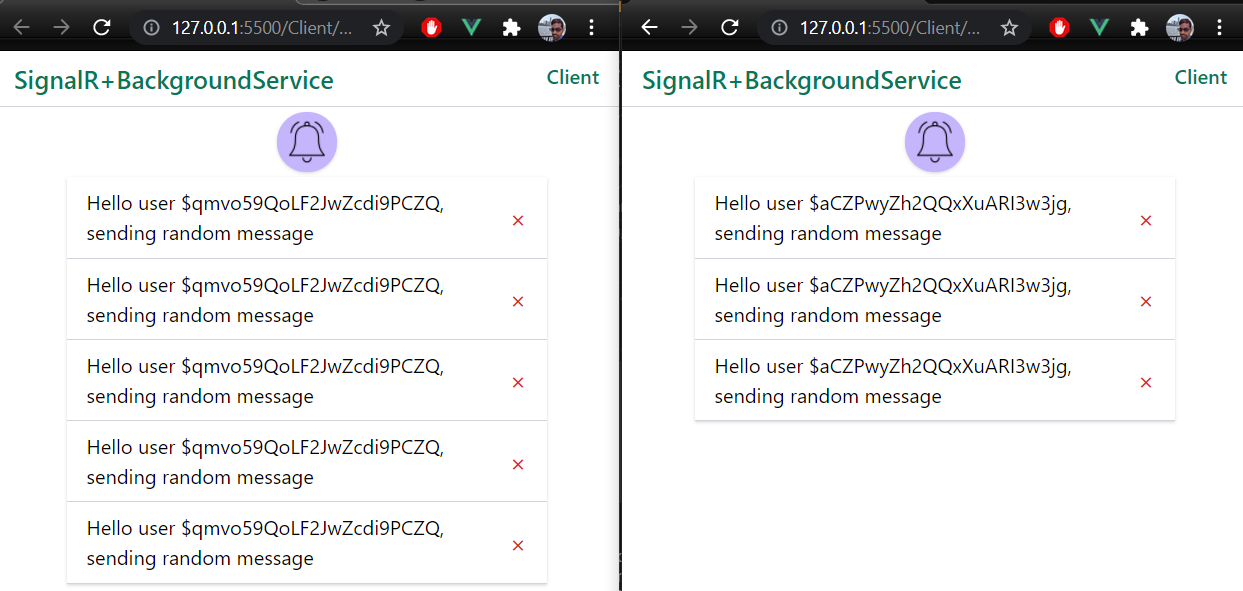
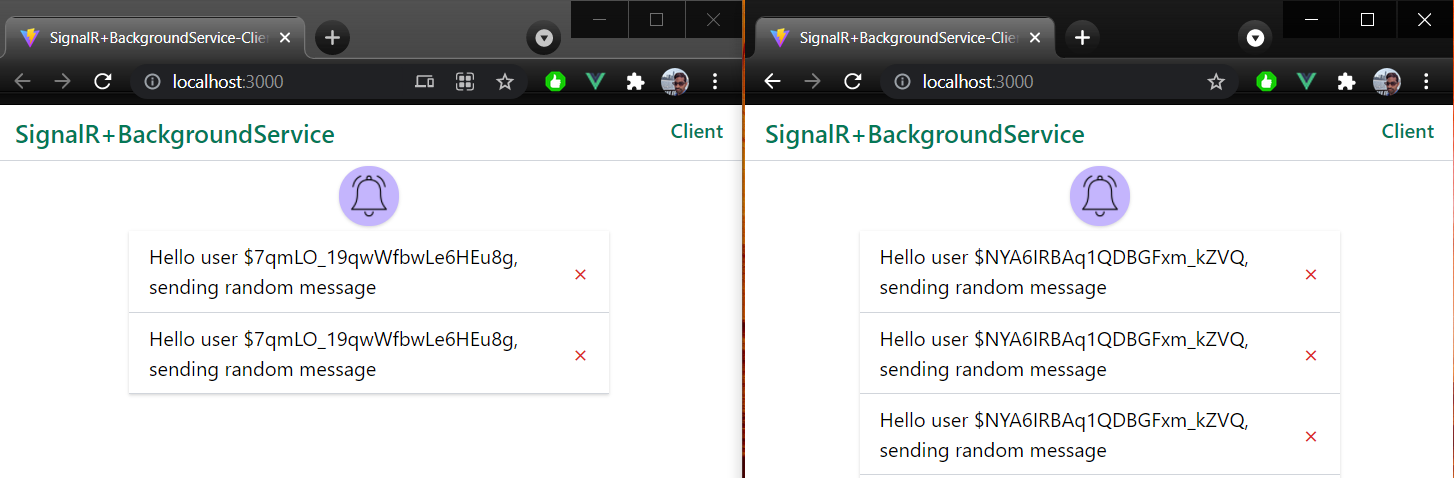
introduced vite for client

diff --git a/SignalR+BackgroundService/Client/index.html b/SignalR+BackgroundService/Client/index.html
@@ -2,30 +2,13 @@
 <html lang="en">
   <head>
     <meta charset="UTF-8" />
-    <meta http-equiv="X-UA-Compatible" content="IE=edge" />
+    <link rel="icon" type="image/svg+xml" href="favicon.svg" />
     <meta name="viewport" content="width=device-width, initial-scale=1.0" />
     <title>SignalR+BackgroundService-Client</title>
     <link
       href="https://unpkg.com/tailwindcss@^2/dist/tailwind.min.css"
       rel="stylesheet"
     />
-    <style>
-      [v-cloak] {
-        display: none;
-      }
-      .items-move {
-        transition: transform 0.3s;
-      }
-      .items-enter-active,
-      .items-leave-active {
-        transition: all 0.3s;
-      }
-      .items-enter-from,
-      .items-leave-to {
-        opacity: 0;
-        transform: translateX(2px);
-      }
-    </style>
   </head>
   <body>
     <div id="app" v-cloak>
@@ -94,37 +77,6 @@
     </div>
     <script src="https://cdnjs.cloudflare.com/ajax/libs/microsoft-signalr/3.1.7/signalr.min.js"></script>
     <script src="https://unpkg.com/vue@next"></script>
-    <script type="text/javascript">
-      const useSignalRConnection = (callback) => {
-        let connection = new signalR.HubConnectionBuilder()
-          .withUrl("https://localhost:5001/hubs/notification")
-          .withAutomaticReconnect()
-          .build();
-        connection.on("NotifyAll", (info) => {
-          callback(info);
-        });
-        connection.on("Notify", (info) => {
-          callback(info);
-        });
-        connection.start().catch((err) => {
-          console.log(`Connection start error ${err}`);
-        });
-      };
-      const notification = {
-        setup() {
-          const notifications = Vue.ref([]);
-          useSignalRConnection((info) => {
-            notifications.value.push(info);
-          });
-          const clear = (id) => {
-            notifications.value = notifications.value.filter(
-              (el) => el.id != id
-            );
-          };
-          return { notifications, clear };
-        },
-      };
-      Vue.createApp(notification).mount("#app");
-    </script>
+    <script type="module" src="/main.js"></script>
   </body>
 </html>

diff --git a/SignalR+BackgroundService/Client/main.js b/SignalR+BackgroundService/Client/main.js
@@ -1,0 +1,29 @@
+import "./style.css";
+const useSignalRConnection = (callback) => {
+  let connection = new signalR.HubConnectionBuilder()
+    .withUrl("https://localhost:5001/hubs/notification")
+    .withAutomaticReconnect()
+    .build();
+  connection.on("NotifyAll", (info) => {
+    callback(info);
+  });
+  connection.on("Notify", (info) => {
+    callback(info);
+  });
+  connection.start().catch((err) => {
+    console.log(`Connection start error ${err}`);
+  });
+};
+const notification = {
+  setup() {
+    const notifications = Vue.ref([]);
+    useSignalRConnection((info) => {
+      notifications.value.push(info);
+    });
+    const clear = (id) => {
+      notifications.value = notifications.value.filter((el) => el.id != id);
+    };
+    return { notifications, clear };
+  },
+};
+Vue.createApp(notification).mount("#app");

diff --git a/SignalR+BackgroundService/Client/style.css b/SignalR+BackgroundService/Client/style.css
@@ -1,0 +1,15 @@
+[v-cloak] {
+  display: none;
+}
+.items-move {
+  transition: transform 0.3s;
+}
+.items-enter-active,
+.items-leave-active {
+  transition: all 0.3s;
+}
+.items-enter-from,
+.items-leave-to {
+  opacity: 0;
+  transform: translateX(2px);
+}

diff --git a/SignalR+BackgroundService/Server/Startup.cs b/SignalR+BackgroundService/Server/Startup.cs
@@ -31,7 +31,7 @@ namespace SignalR_BackgroundService
             //services.AddControllers();
             services.AddCors(options=>{
                 options.AddPolicy("AllowLocalhostClient",builder=>{
-                    builder.WithOrigins("http://127.0.0.1:5500");
+                    builder.WithOrigins("http://localhost:3000");
                     builder.AllowCredentials();
                     builder.AllowAnyHeader();
                 });

diff --git a/SignalR+BackgroundService/readme.md b/SignalR+BackgroundService/readme.md
@@ -134,7 +134,7 @@ public void RemoveConnection(string connectionId){
 UI Screenshot is shown below\
 ![design image](https://github.com/gouthamrangarajan/Asp.Net/blob/master/SignalR%2BBackgroundService/Client.PNG)
 
-##### javascript code in index.html
+##### javascript code in Client\main.js
 
 ```javascript
 const useSignalRConnection = (callback) => {
@@ -154,7 +154,7 @@ const useSignalRConnection = (callback) => {
 };
 ```
 
-- Sample UI done using Vue js and Tailwind CSS
+- Sample UI done using Vite, Vue js and Tailwind CSS
 
 Once Authentication is achieved the design can be depicted using below \
 ![design image](https://github.com/gouthamrangarajan/Asp.Net/blob/master/SignalR%2BBackgroundService/Authentication.png)
